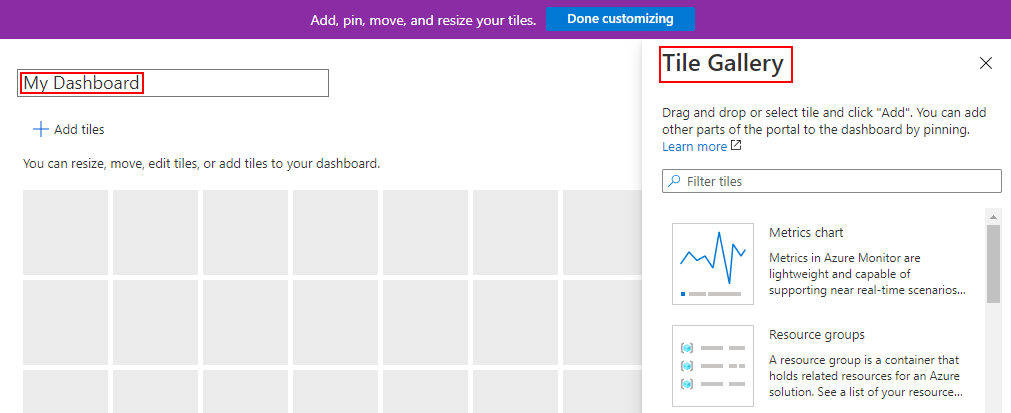
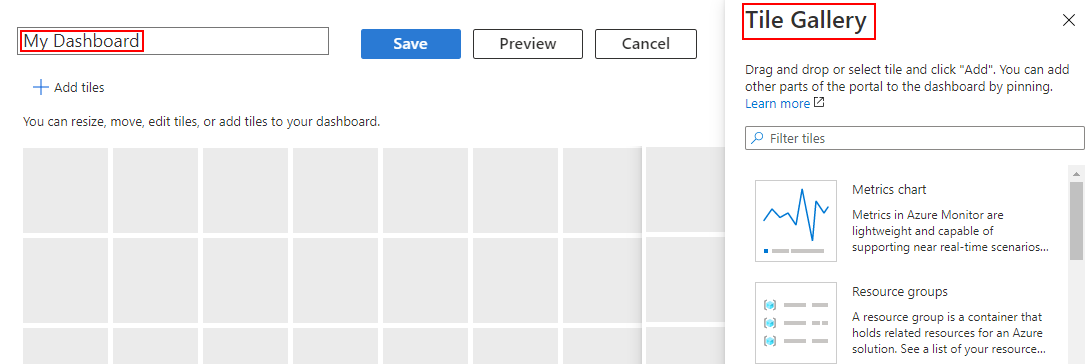
edits complete

diff --git a/articles/azure-portal/azure-portal-dashboards.md b/articles/azure-portal/azure-portal-dashboards.md
@@ -36,7 +36,7 @@ This example shows how to create a new private dashboard with an assigned name. 
 
     :::image type="content" source="media/azure-portal-dashboards/dashboard-name.png" alt-text="Screenshot of an empty grid with the Tile Gallery.":::
 
-1. To save the dashboard as is, select **Done customizing** in the page header. Or, continue to Step 2 of the next section to add tiles and save your dashboard.
+1. To save the dashboard as is, select **Save** in the page header. Or, continue to Step 2 of the next section to add tiles and save your dashboard.
 
 The dashboard view now shows your new dashboard. Select the arrow next to the dashboard name to see dashboards available to you. The list might include dashboards that other users have created and shared.
 
@@ -64,7 +64,7 @@ To add tiles to a dashboard, follow these steps:
 
 1. If desired, [resize or rearrange](#resize-or-rearrange-tiles) your tiles.
 
-1. To save your changes, select **Save** in the page header. You can also preview the changes without saving by selecting **Preview** in the page header. This preview mode also allows you to see how [filters](#set-and-override-dashboard-filters) affect your tiles. From the preview screen, you can select **Save** to keep the changes, **Discard** to remove them, or **Edit** to go back to the editing options and make further changes.
+1. To save your changes, select **Save**. You can also preview the changes without saving by selecting **Preview**. This preview mode also allows you to see how [filters](#set-and-override-dashboard-filters) affect your tiles. From the preview screen, you can select **Save** to keep the changes, **Cancel** to remove them, or **Edit** to go back to the editing options and make further changes.
 
    :::image type="content" source="media/azure-portal-dashboards/dashboard-save.png" alt-text="Screenshot of the Preview, Save, and Discard options.":::
 
@@ -141,7 +141,7 @@ To customize the tile:
 
 Data on the dashboard shows activity and refreshes based on the global filters. Some tiles will allow you to select a different time span for just one tile. To do so, follow these steps:
 
-1. Select **Customize tile data** from the context menu or from the ![filter icon](./media/azure-portal-dashboards/dashboard-filter.png) in the upper left corner of the tile.
+1. Select **Configure tile settings** from the context menu or from the ![filter icon](./media/azure-portal-dashboards/dashboard-filter.png) in the upper left corner of the tile.
 
     :::image type="content" source="media/azure-portal-dashboards/dashboard-customize-tile-data.png" alt-text="Screenshot of tile context menu.":::
 
